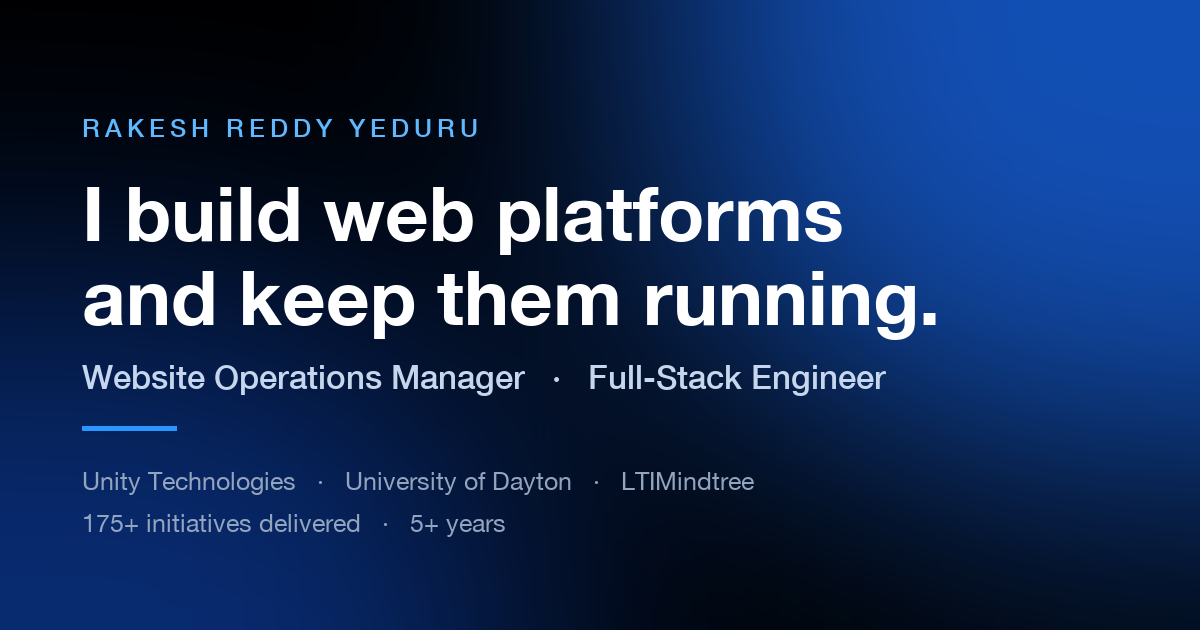
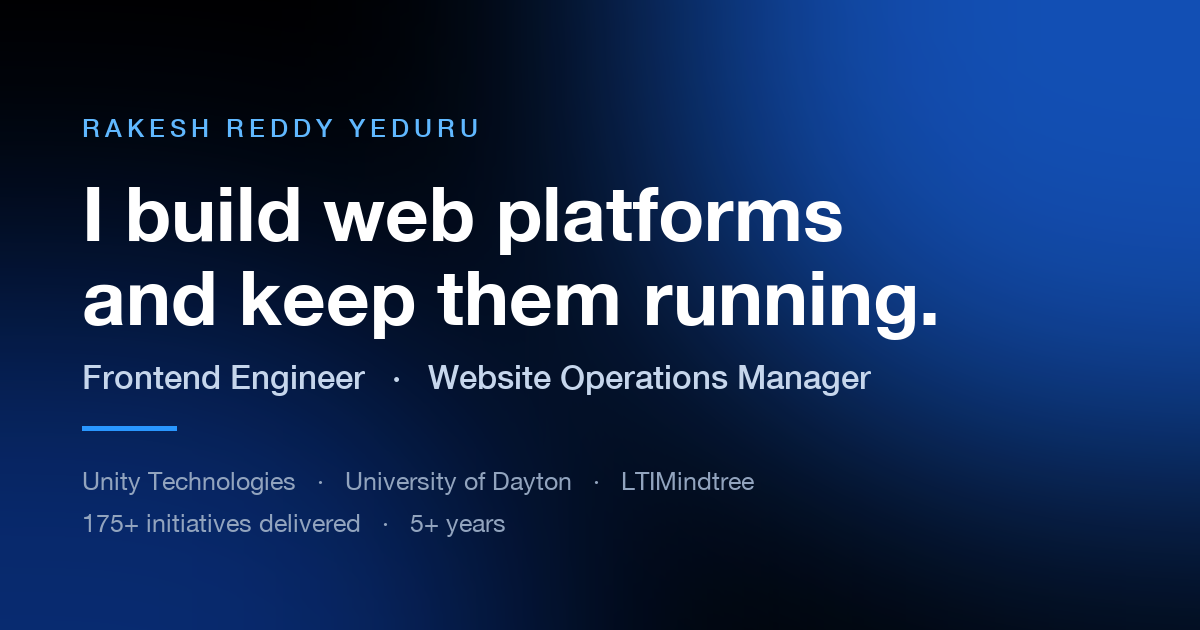
Position as Frontend Engineer instead of Full-Stack
Frontend Engineer now leads the page title, meta and OG tags, hero role
line, badge, contact copy and footer. Role cards lead with a frontend
title, with the résumé title beneath. Regenerates og.png to match.

Changed region(s): [[0.0617, 0.573, 0.74, 0.6333]]

diff --git a/index.html b/index.html
@@ -3,8 +3,8 @@
 <head>
 <meta charset="utf-8" />
 <meta name="viewport" content="width=device-width, initial-scale=1, viewport-fit=cover" />
-<title>Rakesh Reddy Yeduru | Website Operations Manager &amp; Full-Stack Engineer</title>
-<meta name="description" content="Website Operations Manager and full-stack engineer. Five years owning enterprise websites end to end: CMS publishing and governance, React and Next.js, technical SEO, Core Web Vitals, CDN and DNS, analytics and production releases." />
+<title>Rakesh Reddy Yeduru | Frontend Engineer &amp; Website Operations Manager</title>
+<meta name="description" content="Frontend engineer and website operations manager. Five years owning enterprise websites end to end: CMS publishing and governance, React and Next.js, technical SEO, Core Web Vitals, CDN and DNS, analytics and production releases." />
 <meta name="theme-color" content="#000000" />
 
 <!-- Tab icon: inline SVG, no extra file to load -->
@@ -13,7 +13,7 @@
 <!-- Link preview. og:image MUST be absolute. Update these two URLs if the repo is ever renamed. -->
 <meta property="og:type" content="website" />
 <meta property="og:url" content="https://rakesh0710.github.io/Rakesh_Portfolio/" />
-<meta property="og:title" content="Rakesh Reddy Yeduru | Website Operations Manager &amp; Full-Stack Engineer" />
+<meta property="og:title" content="Rakesh Reddy Yeduru | Frontend Engineer &amp; Website Operations Manager" />
 <meta property="og:description" content="I build web platforms and keep them running. Five years across Unity, the University of Dayton and LTIMindtree." />
 <meta property="og:image" content="https://rakesh0710.github.io/Rakesh_Portfolio/og.png" />
 <meta property="og:image:width" content="1200" />
@@ -71,7 +71,7 @@
   <div class="hero__in shell">
 
     <p class="hero__badge" data-lift="1">
-      <i aria-hidden="true"></i>Open to Website Operations &amp; Full-Stack roles
+      <i aria-hidden="true"></i>Open to Frontend &amp; Website Operations roles
     </p>
 
     <p class="hero__kicker" data-lift="2">Rakesh Reddy Yeduru</p>
@@ -82,7 +82,7 @@
     </h1>
 
     <p class="hero__role" data-lift="3">
-      Website Operations Manager <span aria-hidden="true">·</span> Full-Stack Engineer
+      Frontend Engineer <span aria-hidden="true">·</span> Website Operations Manager
     </p>
 
     <p class="hero__lede" data-lift="4">
@@ -338,8 +338,8 @@
         <div class="role__meta">
           <span class="role__chip">Now</span>
           <h3>Unity Technologies</h3>
-          <p class="role__title">Web Operations Specialist</p>
-          <p class="role__title role__title--alt">Full-Stack Web Engineer &amp; Developer Tooling</p>
+          <p class="role__title">Frontend Web Engineer</p>
+          <p class="role__title role__title--alt">Web Operations Specialist</p>
           <p class="role__when">Nov 2025 - Jul 2026</p>
           <div class="role__tags">
             <span>Sanity CMS</span><span>Next.js</span><span>React</span><span>TypeScript</span>
@@ -372,8 +372,8 @@
         <div class="role__meta">
           <span class="role__chip role__chip--past">2023 - 2025</span>
           <h3>University of Dayton</h3>
-          <p class="role__title">Web Content &amp; Digital Experience Analyst</p>
-          <p class="role__title role__title--alt">Full-Stack Web Developer</p>
+          <p class="role__title">Frontend Web Developer</p>
+          <p class="role__title role__title--alt">Web Content &amp; Digital Experience Analyst</p>
           <p class="role__when">Nov 2023 - Aug 2025</p>
           <div class="role__tags">
             <span>HTML5</span><span>CSS3</span><span>JavaScript</span><span>Python</span>
@@ -405,8 +405,8 @@
         <div class="role__meta">
           <span class="role__chip role__chip--past">2020 - 2023</span>
           <h3>LTIMindtree</h3>
-          <p class="role__title">Digital Communications &amp; Web Strategy Lead</p>
-          <p class="role__title role__title--alt">Full-Stack Software Developer</p>
+          <p class="role__title">Frontend Developer</p>
+          <p class="role__title role__title--alt">Digital Communications &amp; Web Strategy Lead</p>
           <p class="role__when">Jan 2020 - May 2023</p>
           <div class="role__tags">
             <span>React</span><span>Next.js</span><span>GraphQL</span><span>AEM</span>
@@ -810,7 +810,7 @@
   <div class="shell">
     <h2 class="contact__h2 rv">Let's build<br>something.</h2>
     <p class="contact__lede rv">
-      Available for Website Operations, web management and full-stack engineering roles across the
+      Available for frontend engineering, website operations and web management roles across the
       United States. Email is fastest. I answer the same day.
     </p>
 
@@ -838,7 +838,7 @@
     </div>
 
     <div class="foot">
-      <span>Rakesh Reddy Yeduru · Website Operations Manager &amp; Full-Stack Engineer</span>
+      <span>Rakesh Reddy Yeduru · Frontend Engineer &amp; Website Operations Manager</span>
       <span>United States · Open to relocation</span>
     </div>
   </div>

diff --git a/README.md b/README.md
@@ -3,8 +3,8 @@
 A single-page portfolio, designed in the spirit of apple.com. No build step, no npm, no framework.
 Three files, open and edit.
 
-Positioned for **both** tracks you're applying to: Web Operations Specialist *and* full-stack
-engineer. Each role in the Experience section carries both titles.
+Positioned as a **frontend engineer** first, with website operations as the second track.
+Each role in the Experience section leads with a frontend title, with the résumé title beneath.
 
 ---
 
